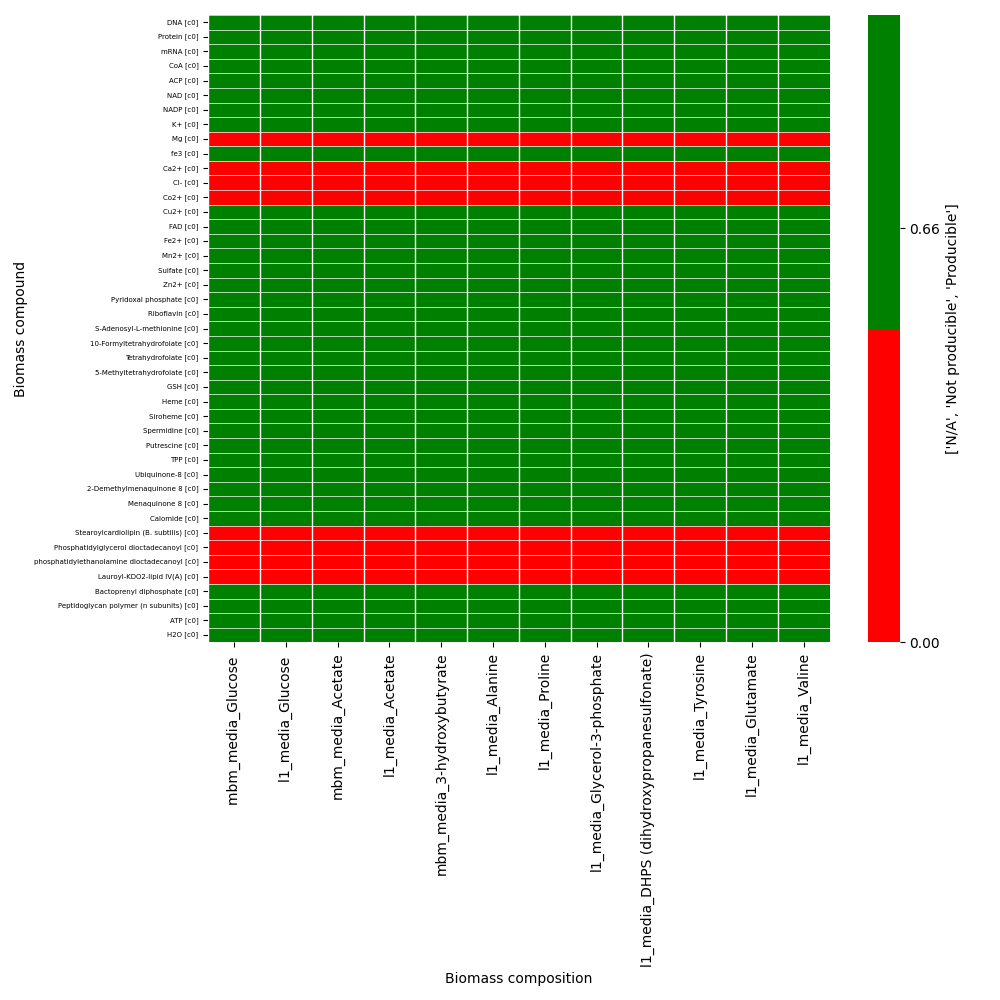
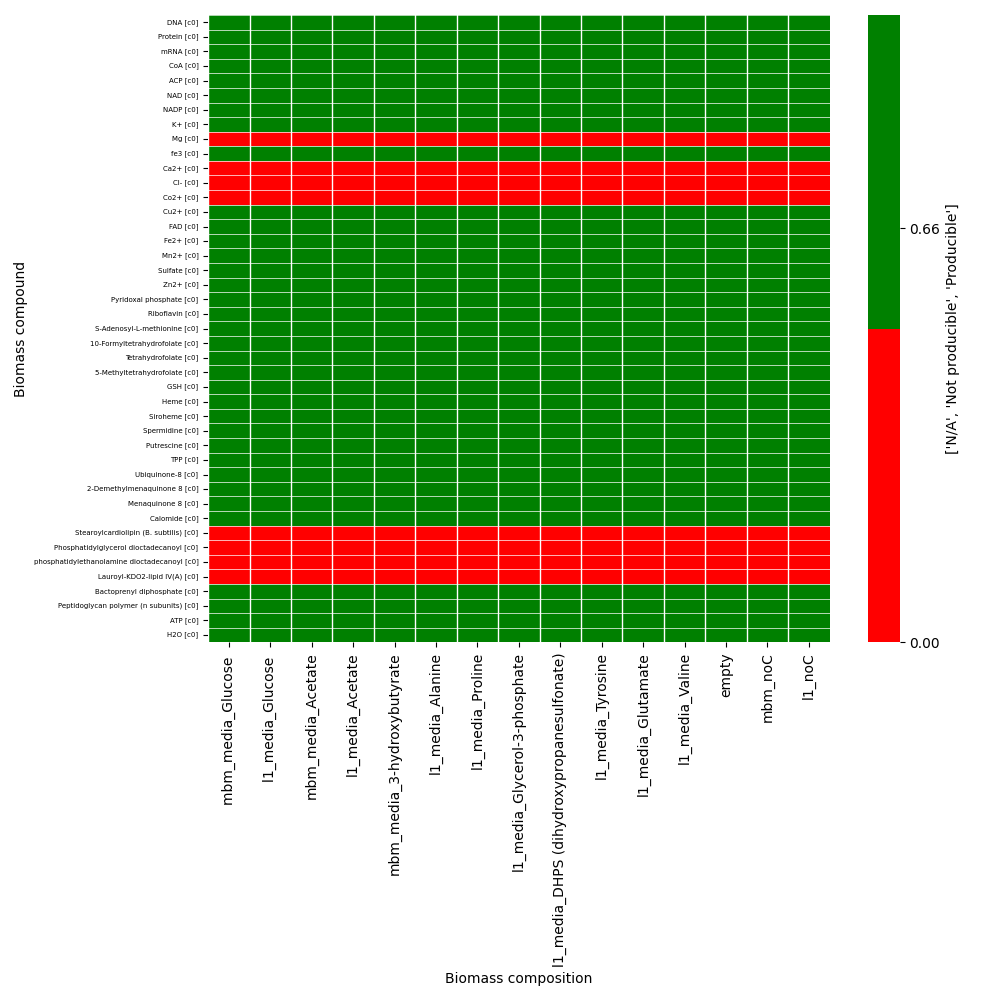
Add controls

diff --git a/biomass/check_producibility.py b/biomass/check_producibility.py
@@ -48,6 +48,31 @@ def clean_media(model, media):
     return clean_medium
 
 
+# Broke out the function for actually testing the component producibility on a given medium
+def test_medium(medium_dict, biomass_compounds, model):
+    """Runs FBA for each biomass_compound as objective under `medium_dict`.
+    Returns a dict {compound_id: True/False}."""
+    results = {}
+    # Set the medium
+    model.medium = clean_media(model, medium_dict)
+
+    # Loop over each biomass compound
+    for cpd_id in biomass_compounds:
+        # Set the objective to the sink/demand for cpd_id
+        # e.g., "SK_cpd_id"
+        model.objective = {model.reactions.get_by_id("SK_" + cpd_id): 1}
+
+        # Optimize
+        sol = model.optimize()
+
+        # Check feasibility
+        if (sol.status == "optimal") and (sol.objective_value > 1e-6):
+            results[cpd_id] = True
+        else:
+            results[cpd_id] = False
+    return results
+
+
 # Load the model
 model = cobra.io.read_sbml_model(
     os.path.join(REPO_DIR, "2025-01-08_Scott_draft-model-from-KBase.xml")
@@ -93,21 +118,37 @@ for index, row in growth_phenotypes.iterrows():
     medium["EX_" + row["met_id"] + "_e0"] = (
         1000.0  # FIXME: I should set this to a consistent, lower value
     )
-    model.medium = clean_media(model, medium)
-    # Loop through the biomass compounds and check if they are producible
-    for cpd_id in biomass_compounds:
-        # Set the objective to be the sink reaction for the compound
-        model.objective = {model.reactions.get_by_id("SK_" + cpd_id): 1}
-        # Run FBA
-        sol = model.optimize()
-        # Check if solution is feasible
-        if sol.status != "optimal":
-            biomass_producibility[c_source][cpd_id] = False
-        # Check if the compound is producible
-        if sol.objective_value > 1e-6:
-            biomass_producibility[c_source][cpd_id] = True
-        else:
-            biomass_producibility[c_source][cpd_id] = False
+    # Test it
+    biomass_producibility[c_source] = test_medium(medium, biomass_compounds, model)
+
+# Add negative controls
+# Create some custom dicts for the "control" conditions:
+# 1) An empty medium
+empty_media = {}
+
+# 2) mbm minus carbon sources (assuming your minimal media has some "EX_CARBON" keys)
+#    This just filters out any exchange that might be for the primary carbon.
+mbm_no_carbon = {
+    ex: lb
+    for ex, lb in mbm_media.items()
+    if not ex.startswith("EX_") or "glc" not in ex.lower()
+}
+
+# 3) l1 minus carbon sources
+l1_no_carbon = {
+    ex: lb
+    for ex, lb in l1_media.items()
+    if not ex.startswith("EX_") or "glc" not in ex.lower()
+}
+
+# Combine the negative controls into a dictionary
+controls = {"empty": empty_media, "mbm_noC": mbm_no_carbon, "l1_noC": l1_no_carbon}
+
+# Test the negative controls
+for ctrl_name, ctrl_medium in controls.items():
+    biomass_producibility[ctrl_name] = test_medium(
+        ctrl_medium, biomass_compounds, model
+    )
 
 # Make a dataframe of the producibility results and save it to a TSV file
 df = pd.DataFrame.from_dict(biomass_producibility)
